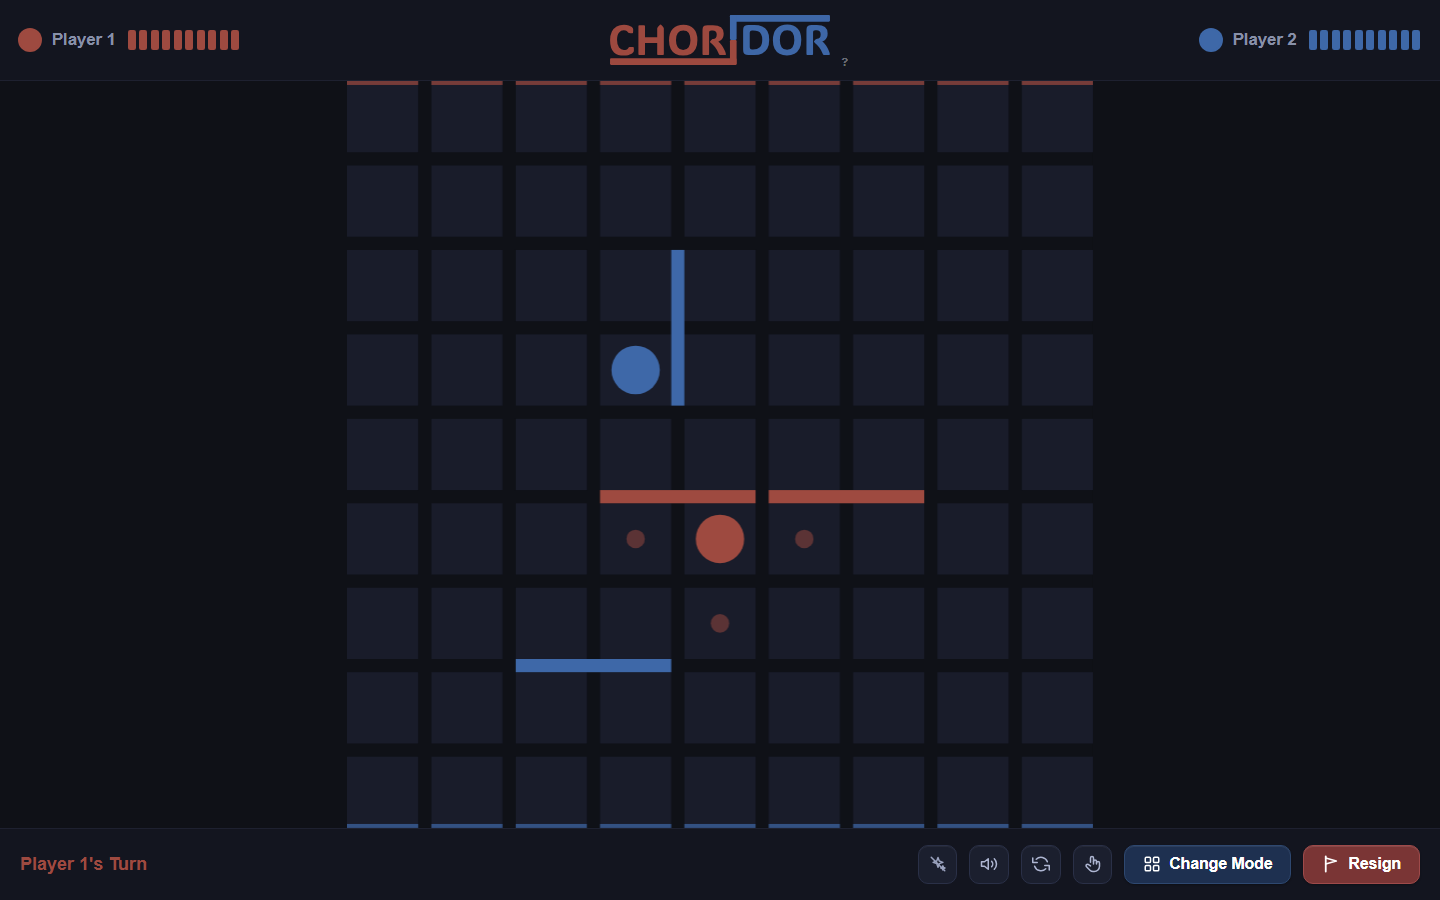
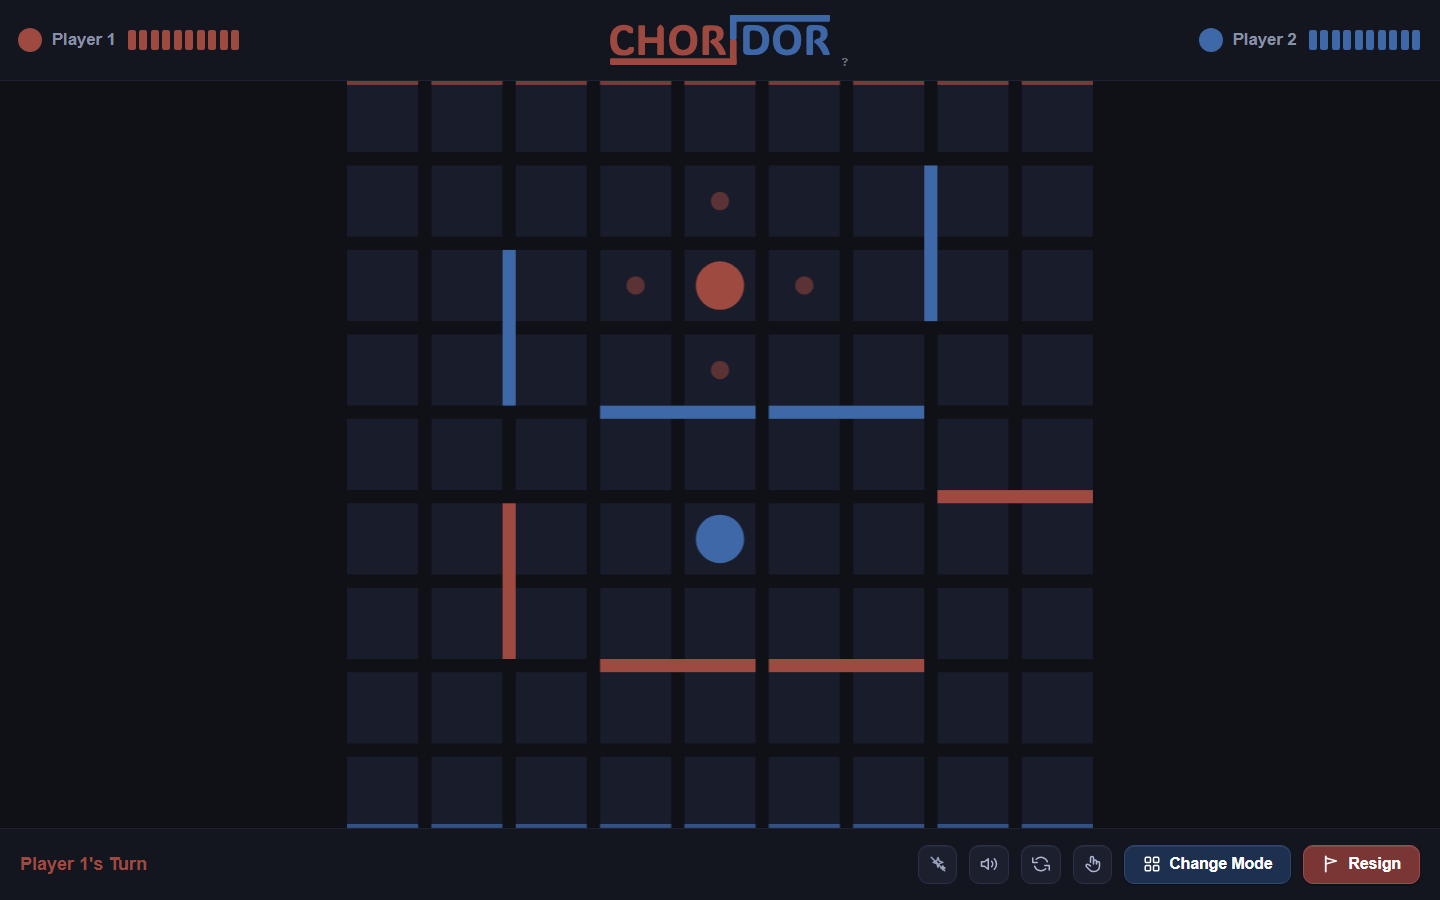
chore: update screenshots to simulate a longer 24-move game
More walls spread across the board, pawns further advanced, win screen
now shows 24 vs 23 moves instead of 12 vs 11.

Claude-Session: https://claude.ai/code/session_01SW54VoZCCtTj4EPxNEKdX4

diff --git a/.github/scripts/board-screenshot.js b/.github/scripts/board-screenshot.js
@@ -3,11 +3,18 @@ const { chromium } = require('playwright');
 const BASE = 'http://localhost:4321';
 const OUT  = 'docs/screenshots';
 
+// Mid-game state: ~22 moves in, 4 walls placed each, pawns well advanced
 const WALLS = [
-    { row: 4, col: 3, orientation: 'H' },
-    { row: 4, col: 5, orientation: 'H' },
-    { row: 2, col: 3, orientation: 'V' },
-    { row: 6, col: 2, orientation: 'H' },
+    // p1's walls (indices 0-3)
+    { row: 6, col: 3, orientation: 'H' },
+    { row: 6, col: 5, orientation: 'H' },
+    { row: 5, col: 1, orientation: 'V' },
+    { row: 4, col: 7, orientation: 'H' },
+    // p2's walls (indices 4-7)
+    { row: 3, col: 3, orientation: 'H' },
+    { row: 3, col: 5, orientation: 'H' },
+    { row: 2, col: 1, orientation: 'V' },
+    { row: 1, col: 6, orientation: 'V' },
 ];
 
 async function injectState(p, pawns, wallCounts, extra) {
@@ -16,7 +23,7 @@ async function injectState(p, pawns, wallCounts, extra) {
         gs.p1Pawn     = pawns.p1;
         gs.p2Pawn     = pawns.p2;
         gs.walls      = new Set(walls.map(w => JSON.stringify(w)));
-        gs.wallOwners = new Map(walls.map((w, i) => [JSON.stringify(w), i < 2 ? 'p1' : 'p2']));
+        gs.wallOwners = new Map(walls.map((w, i) => [JSON.stringify(w), i < 4 ? 'p1' : 'p2']));
         gs.wallCounts = wallCounts;
         Object.assign(gs, extra || {});
         window.__choridor.updateLegalMoves();
@@ -31,9 +38,10 @@ async function board(b) {
     await p.waitForTimeout(1500);
     await p.click('#btn-local');
     await p.waitForTimeout(800);
+    // p1 at row 2 (almost there), p2 at row 5; each used 4 walls leaving 6
     await injectState(p,
-        { p1: { row: 5, col: 4 }, p2: { row: 3, col: 3 } },
-        { p1: 8, p2: 8 },
+        { p1: { row: 2, col: 4 }, p2: { row: 5, col: 4 } },
+        { p1: 6, p2: 6 },
         null
     );
     await p.waitForTimeout(400);
@@ -50,10 +58,11 @@ async function win(b) {
     await p.waitForTimeout(1500);
     await p.click('#btn-local');
     await p.waitForTimeout(800);
+    // p1 crossed the finish line; p2 still at row 4
     await injectState(p,
-        { p1: { row: 0, col: 4 }, p2: { row: 3, col: 3 } },
-        { p1: 7, p2: 6 },
-        { movesP1: 12, movesP2: 11 }
+        { p1: { row: 0, col: 4 }, p2: { row: 4, col: 4 } },
+        { p1: 6, p2: 6 },
+        { movesP1: 24, movesP2: 23 }
     );
     await p.waitForTimeout(400);
     await p.evaluate(() => {